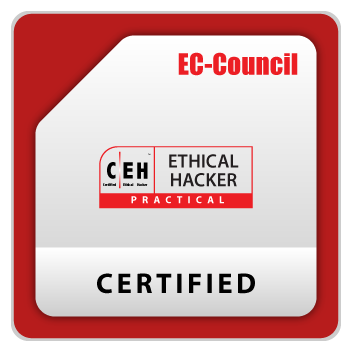
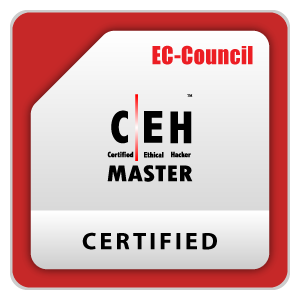
Updated certs

diff --git a/index.html b/index.html
@@ -260,21 +260,21 @@
         </blockquote> -->        
         <p>
           Hey There!👋🏻 I'm an Information Security Professional and Certified Ethical Hacker with 10+ years of research experience in Penetration Testing and Cyber security. 
-          I am  Telecommunication Engineer with Masters in Information Security from National University of Sciene and Technology.
-          I also hold Multiple Industry Certifications in the fields of Networking and Cyber Security like CEH(practical), CCENT,  HCIP, HCIA, MOS, CNSP, CAP and CSCU.
+          I am  Telecommunication Engineer with Masters in Information Security from National University of Sciene and Technology. I am an EC Council Certified Trainer.
+          I also hold Multiple Industry Certifications in the fields of Networking and Cyber Security like CEH(Master), CCENT,  HCIP, HCIA, MOS, CNSP, CAP, Azure Administrator and CSCU.
         </p>
         <p>
           <ul>
             <li><b>Languages:</b> Python,HTML/CSS, Bash</li>
             <li><b>Skills:</b> Networking, Web Security, Network Pentesting, Information Security Trainer, Blogging</li>
-            <li><b>Tools & Frameworks:</b> Kali Linux, Metasploit, Burp, ZAP,Nmap, Nessus</li>
+            <li><b>Tools & Frameworks:</b> Kali Linux, Metasploit, Burp, ZAP, Nmap, Nessus</li>
           </ul>
           
         </p>
           
         <p>
           
-          Detail-oriented Information Security professional with experience in NOC (Network operations center) managment, Cyber security training and Pentesting.           
+          Detail-oriented Information Security professional and trainer with experience in NOC (Network operations center) managment, Cyber security training and Pentesting.           
         </p>
         <!-- <p>
           Looking for an opportunity to work in a challenging position combining my skills in Software Engineering, which provides professional development, interesting experiences and personal growth.
@@ -779,7 +779,7 @@ of each drug container to estimate the degradation of the drug.
             <h4 class="brown-text light">Cyber Security</h4>
             <div class="row text-center">
               <div class="col s4 m2">
-                <img alt="" src="/assets/img/ceh.png" class="responsive-img" />Certified Ethical Hacker
+                <img alt="" src="/assets/img/CEH.png" class="responsive-img" />Certified Ethical Hacker (Master)
               </div>
               <div class="col s4 m2">
                 <img alt="" src="/assets/img/CSCU-Logo.jpg" class="responsive-img" />CSCU
@@ -837,6 +837,12 @@ of each drug container to estimate the degradation of the drug.
               <div class="col s4 m2">
                 <img alt="" src="/assets/img/hciac.jpg" class="responsive-img" />HCIA(Cloud)
               </div>
+              <div class="col s4 m2">
+                <img alt="" src="/assets/img/az200.png" class="responsive-img" />Microsoft Azure Administrator
+              </div>
+              <div class="col s4 m2">
+                <img alt="" src="/assets/img/sc900.png" class="responsive-img" />Microsoft Security, Compliance, and Identity Fundamentals
+              </div>
               <!-- <div class="col s4 m2">
                 <img alt="" src="/assets/img/heroku.png" class="responsive-img" />Heroku
               </div> -->
@@ -852,6 +858,9 @@ of each drug container to estimate the degradation of the drug.
 
               <div class="col s4 m2">
                 <img alt="" src="/assets/img/mos.png" class="responsive-img" />Microsoft Office Specialist (Access)
+              </div>
+              <div class="col s4 m2">
+                <img alt="" src="/assets/img/cei.png" class="responsive-img" />EC Council Certified Cyber Security Instructor
               </div>
               <!-- <div class="col s4 m2">
                 <img alt="" src="/assets/img/hciac.jpg" class="responsive-img" />HCIA(Cloud)
@@ -914,7 +923,7 @@ of each drug container to estimate the degradation of the drug.
                 </p>
                 <p class="brown-text">Islamabad, Pakistan</p>
                 <p>
-                  <b>Degree: </b>Master of Science in Information Security      
+                  <b>Degree: </b>Master of Science in Information Security (Merit Certificate for Securing highest GPA)      
                   <br>
                   <b>CGPA: </b>4.0/4.0
                 </p>
